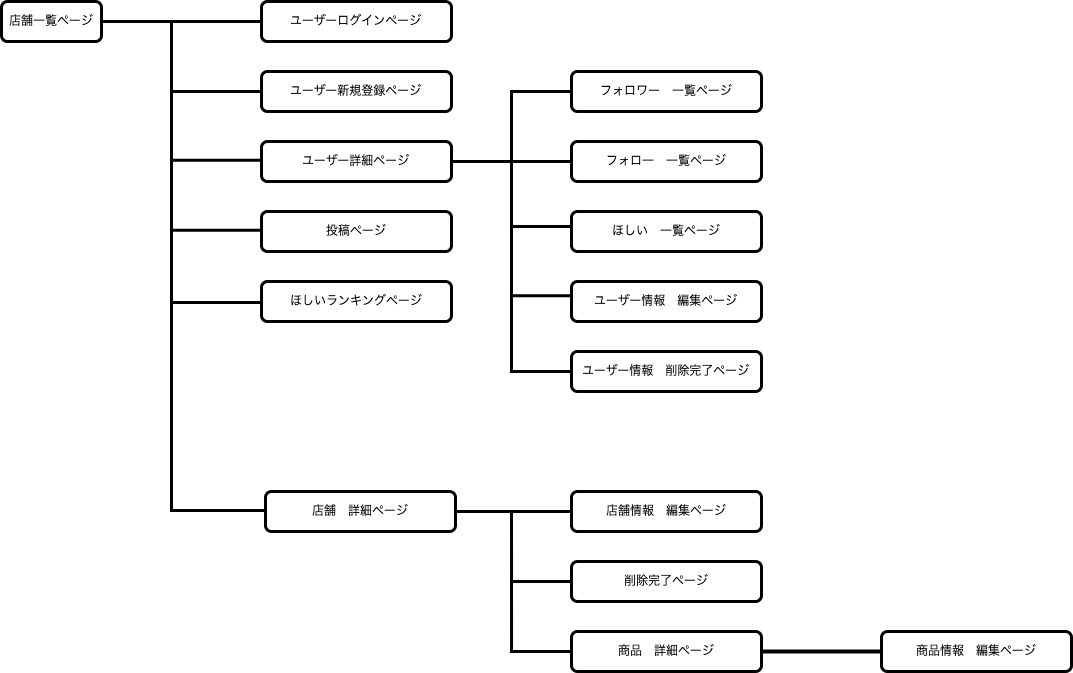
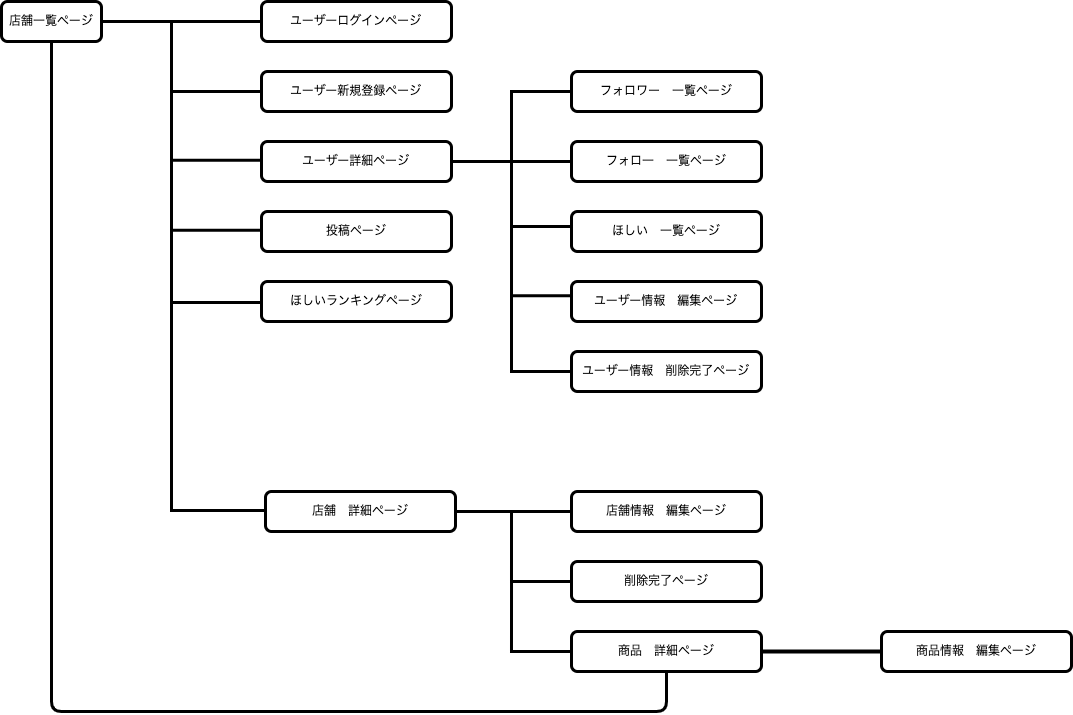
READMEの修正

diff --git a/README.md b/README.md
@@ -43,10 +43,10 @@ https://coffee-post.herokuapp.com/
 - タグ機能
 - ユーザーフォロー機能
 # データベース設計
-[![Image from Gyazo](https://i.gyazo.com/2e14b4710b2069c36befc1eba62cd5b2.png)](https://gyazo.com/2e14b4710b2069c36befc1eba62cd5b2)
+[![Image from Gyazo](https://i.gyazo.com/53f38e684c4eabb4c898f138a77eb5e5.png)](https://gyazo.com/53f38e684c4eabb4c898f138a77eb5e5)
 
 # 画面遷移図
-[![Image from Gyazo](https://i.gyazo.com/054d63e8aa3192937316805725a7052e.png)](https://gyazo.com/054d63e8aa3192937316805725a7052e)
+[![Image from Gyazo](https://i.gyazo.com/903638781b80fec46748d33ace36b522.png)](https://gyazo.com/903638781b80fec46748d33ace36b522)
 
 # 開発環境
 ### フロントエンド
